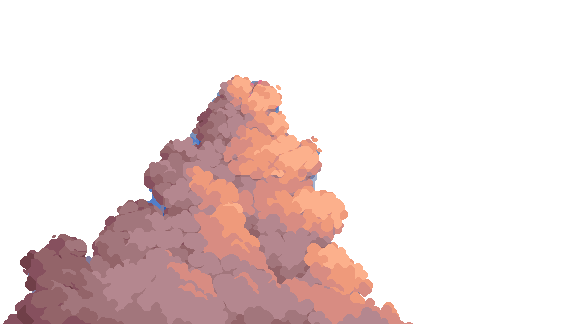
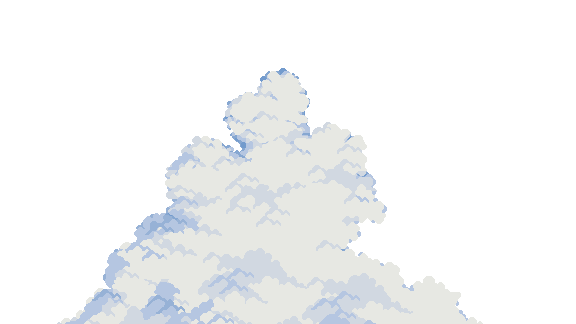
update

diff --git a/styles.css b/styles.css
@@ -124,7 +124,7 @@ button{
 }
 
 .wall{
-    z-index: -5;
+    z-index: -9;
     height: 500px;
     width: 1000px;
     position: absolute;
@@ -157,14 +157,29 @@ button{
 
 
 }
+@keyframes cloud {
+    0%{
+
+        top: -475px;
+        left: 300px;
+
+    }
+    100%{
+        top: -140px;
+        left: 910px;
+    }
+    
+}
 .r-wall.b{
+    opacity: 0.8;
     z-index: -8;
-    background-image: url("assests/clouds/2.png");
-    top: -320px;
-    left: 600px;
-    height:500px;
-    width: 500px;
-    background-size: contain;
+    background-image: url("assests/clouds/3.png");
+
+    height:400px;
+    width: 576px;
+    background-size: cover;
+    animation: cloud 120s infinite forwards;
+    
 
 
 
